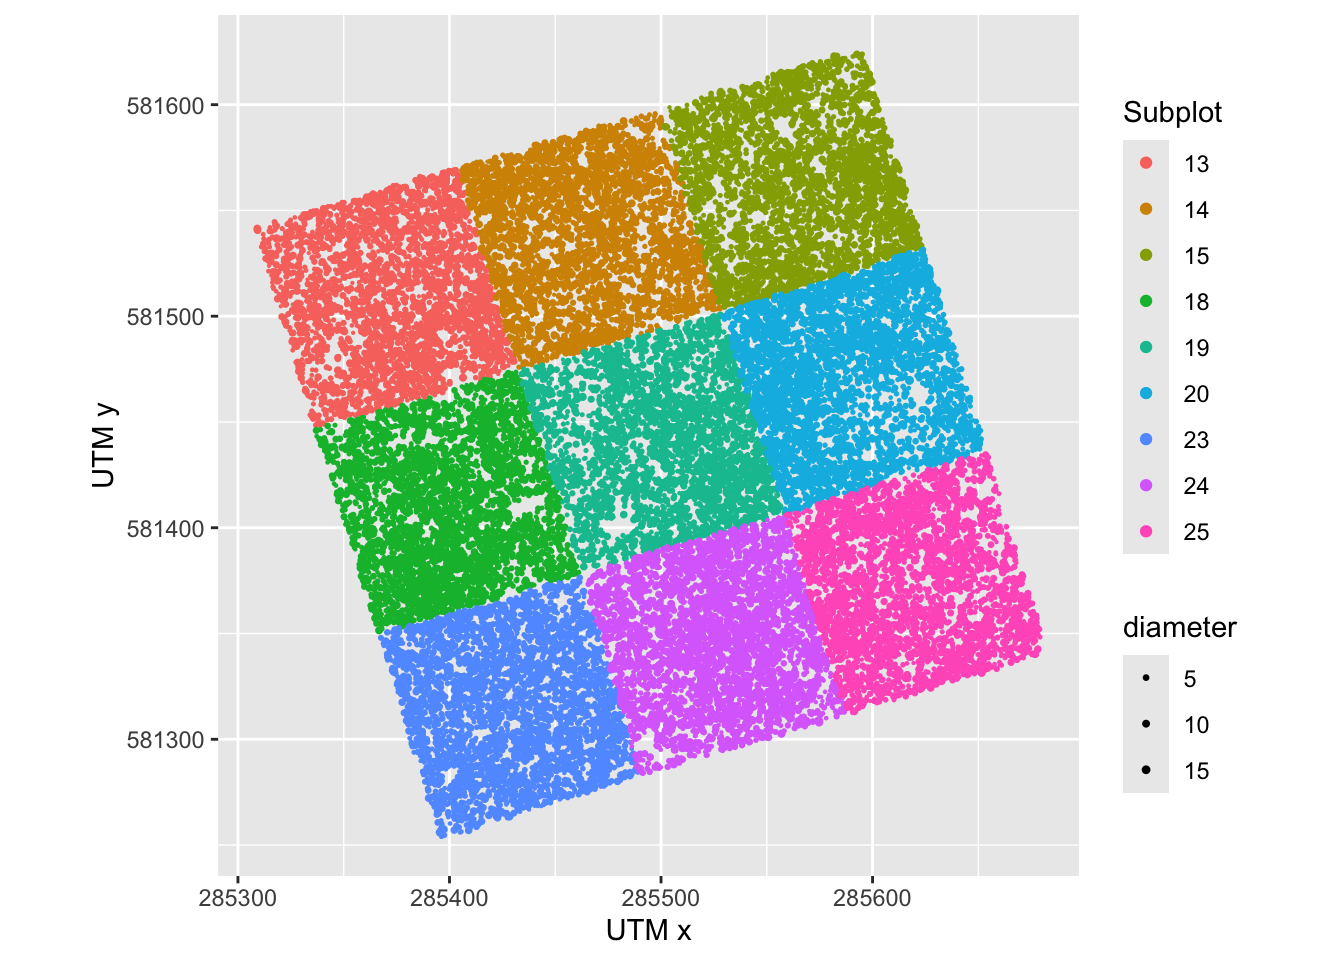
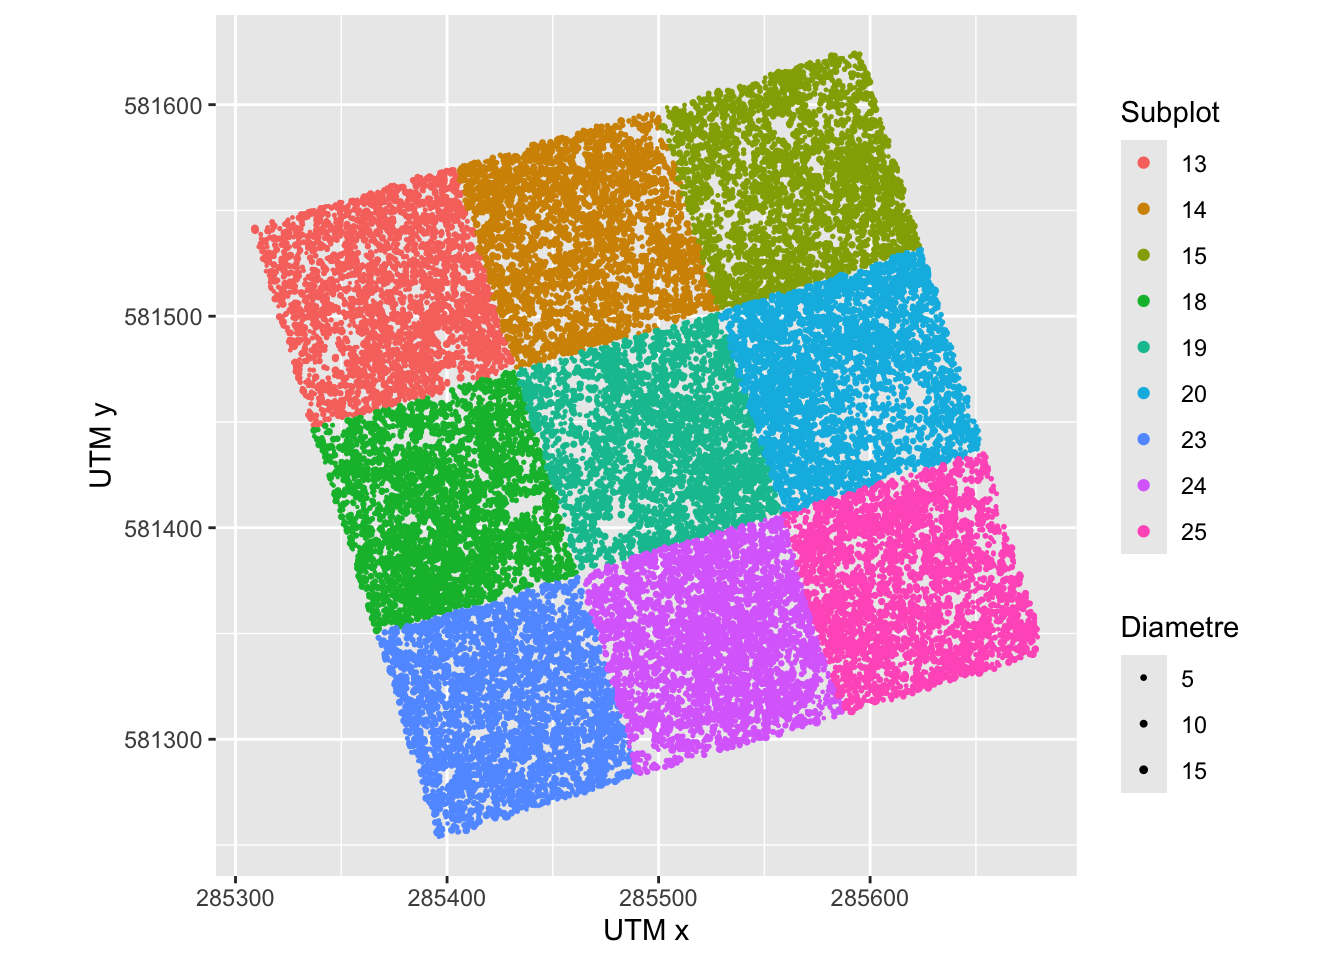
Built site for gh-pages

diff --git a/index.html b/index.html
@@ -7,6 +7,7 @@
 <meta name="viewport" content="width=device-width, initial-scale=1.0, user-scalable=yes">
 
 <meta name="author" content="Eric Marcon">
+<meta name="author" content="Léa Françoise">
 <meta name="author" content="Vincyane Badouard">
 
 <title>Coordinates correction</title>
@@ -156,6 +157,7 @@ window.Quarto = {
     <div class="quarto-title-meta-heading">Authors</div>
     <div class="quarto-title-meta-contents">
[3 lines of base64/hex data omitted]
           </div>
   </div>
@@ -1042,7 +1044,7 @@ d_{down} &amp; = y_a + y_h\\
 <span id="cb27-26"><a href="#cb27-26" aria-hidden="true" tabindex="-1"></a>  <span class="fu">geom_point</span>() <span class="sc">+</span> </span>
 <span id="cb27-27"><a href="#cb27-27" aria-hidden="true" tabindex="-1"></a>  <span class="fu">coord_fixed</span>() <span class="sc">+</span></span>
 <span id="cb27-28"><a href="#cb27-28" aria-hidden="true" tabindex="-1"></a>  <span class="fu">scale_size_continuous</span>(<span class="at">range =</span> <span class="fu">c</span>(<span class="fl">0.1</span>, <span class="dv">1</span>)) <span class="sc">+</span></span>
-<span id="cb27-29"><a href="#cb27-29" aria-hidden="true" tabindex="-1"></a>  <span class="fu">labs</span>(<span class="at">color =</span> <span class="st">"Subplot"</span>, <span class="at">x =</span> <span class="st">"UTM x"</span>, <span class="at">y =</span> <span class="st">"UTM y"</span>)</span></code></pre></div><button title="Copy to Clipboard" class="code-copy-button"><i class="bi"></i></button></div>
+<span id="cb27-29"><a href="#cb27-29" aria-hidden="true" tabindex="-1"></a>  <span class="fu">labs</span>(<span class="at">color =</span> <span class="st">"Subplot"</span>, <span class="at">x =</span> <span class="st">"UTM x"</span>, <span class="at">y =</span> <span class="st">"UTM y"</span>, <span class="at">size =</span> <span class="st">"Diametre"</span>)</span></code></pre></div><button title="Copy to Clipboard" class="code-copy-button"><i class="bi"></i></button></div>
 <div class="cell-output-display">
 <div>
 <figure class="figure">
@@ -1082,7 +1084,7 @@ d_{down} &amp; = y_a + y_h\\
 <span id="cb28-22"><a href="#cb28-22" aria-hidden="true" tabindex="-1"></a>  ) <span class="sc">+</span></span>
 <span id="cb28-23"><a href="#cb28-23" aria-hidden="true" tabindex="-1"></a>  <span class="fu">labs</span>(</span>
 <span id="cb28-24"><a href="#cb28-24" aria-hidden="true" tabindex="-1"></a>    <span class="at">color =</span> <span class="st">"Subplot"</span>, </span>
-<span id="cb28-25"><a href="#cb28-25" aria-hidden="true" tabindex="-1"></a>    <span class="at">fill =</span> <span class="st">"Plot"</span>, </span>
+<span id="cb28-25"><a href="#cb28-25" aria-hidden="true" tabindex="-1"></a>    <span class="at">fill =</span> <span class="st">"Subplot"</span>, </span>
 <span id="cb28-26"><a href="#cb28-26" aria-hidden="true" tabindex="-1"></a>    <span class="at">x =</span> <span class="st">"Displacement"</span>, </span>
 <span id="cb28-27"><a href="#cb28-27" aria-hidden="true" tabindex="-1"></a>    <span class="at">y =</span> <span class="st">"Probabilty density"</span></span>
 <span id="cb28-28"><a href="#cb28-28" aria-hidden="true" tabindex="-1"></a>  )</span></code></pre></div><button title="Copy to Clipboard" class="code-copy-button"><i class="bi"></i></button></div>
